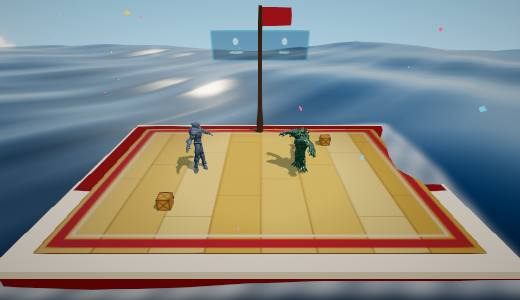
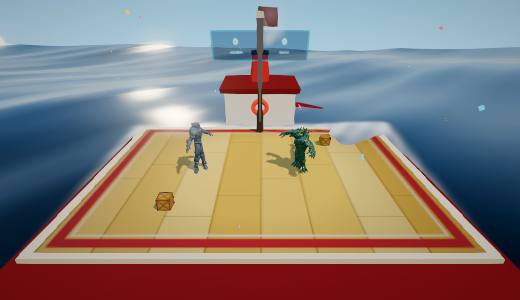
ALTO MAR vira NAVIO de verdade em movimento 🚢
- Casco de rebocador extrudado (popa redonda, proa em bico) com passadiço
  vermelho ao redor do convés de luta; cabine branca com teto, chaminé
  soltando FUMAÇA que escoa pra popa, boia salva-vidas e cordame do mastro.
- Navio em MOVIMENTO sem tocar na física: a correnteza desloca a fase das
  ondas (vêm da proa e escoam pra popa), whitecaps viajam junto da água,
  espuma reforçada na proa e ESTEIRA em V atrás da popa (ângulo de Kelvin
  ~19°) com riscos correndo pra trás e bordas brancas sumindo ao longe.
- Bandeira esticada pro vento aparente do avanço; thumbnail regerada.

Claude-Session: https://claude.ai/code/session_01VFZfn93qfLdPvcdkebiN54

diff --git a/src/main.js b/src/main.js
@@ -2098,7 +2098,7 @@ const MAPAS = [
   },
   {
     nome: 'ALTO MAR',
-    desc: 'convés de navio em mar aberto',
+    desc: 'navio a todo vapor, ondas de proa',
     fundoTex: FUNDOS.ceuAberto,
     amb: 'agua',
     semHolofotes: true,
@@ -2110,17 +2110,60 @@ const MAPAS = [
       climaMapa({ ceu: 0xbfd8e8, chao: 0x1c3a4a, fog: 0xc4d6e2, fogNear: 34, fogFar: 95, sol: 0xfff2d8, solInt: 1.4, expo: 1.02 });
       // Convés de madeira (o ringue) + casco + mastro com bandeira
       chaoFixo(m, 5.5, 4, new THREE.MeshStandardMaterial({ map: deckTex, roughness: 0.8 }));
-      const casco = new THREE.Mesh(new THREE.BoxGeometry(12.2, 1.5, 8.9), toonMat(THREE, 0x8a2f24));
-      casco.position.y = -0.78; scene.add(casco); m.meshes.push(casco);
-      const friso = new THREE.Mesh(new THREE.BoxGeometry(12.4, 0.22, 9.1), toonMat(THREE, 0xe8dcc0));
-      friso.position.y = -0.14; scene.add(friso); m.meshes.push(friso);
+      // CASCO de rebocador de verdade: contorno extrudado — popa redonda, proa em
+      // bico. O convés de luta é o meio do navio; cabine e chaminé ficam na proa
+      // (fora do ringue) pra silhueta ser de BARCO sem atrapalhar a briga.
+      const contorno = new THREE.Shape();
+      contorno.moveTo(-5.9, -5.4);                       // bochecha da popa (bombordo)
+      contorno.quadraticCurveTo(0, -8.6, 5.9, -5.4);     // popa arredondada
+      contorno.lineTo(5.9, 4.2);                          // costado
+      contorno.quadraticCurveTo(5.5, 7.6, 0, 10.4);      // proa em bico
+      contorno.quadraticCurveTo(-5.5, 7.6, -5.9, 4.2);
+      contorno.closePath();
+      const geoCasco = new THREE.ExtrudeGeometry(contorno, { depth: 1.7, bevelEnabled: true, bevelSize: 0.35, bevelThickness: 0.3, bevelSegments: 2 });
+      geoCasco.rotateX(-Math.PI / 2); // shape XY -> XZ (y do shape vira -z: proa em -z)
+      const casco = new THREE.Mesh(geoCasco, toonMat(THREE, 0x8a2f24));
+      casco.position.y = -2.16; casco.castShadow = true; // topo ~15cm abaixo do assoalho: vira o passadiço vermelho da borda
+      scene.add(casco); m.meshes.push(casco);
+      const friso = new THREE.Mesh(new THREE.BoxGeometry(11.6, 0.2, 8.4), toonMat(THREE, 0xe8dcc0));
+      friso.position.y = -0.11; scene.add(friso); m.meshes.push(friso);
+      // cabine branca com teto + chaminé na proa
+      const cabine = new THREE.Mesh(new THREE.BoxGeometry(3.5, 1.7, 2.7), toonMat(THREE, 0xf2ede2));
+      cabine.position.set(0, 0.75, -6.1); cabine.castShadow = true;
+      const teto = new THREE.Mesh(new THREE.BoxGeometry(3.9, 0.24, 3.1), toonMat(THREE, 0x8a2f24));
+      teto.position.set(0, 1.72, -6.1);
+      const chamine = new THREE.Mesh(new THREE.CylinderGeometry(0.42, 0.52, 1.5, 14), toonMat(THREE, 0xcf4a37));
+      chamine.position.set(0, 2.5, -6.4); chamine.rotation.x = -0.12;
+      const bocaCh = new THREE.Mesh(new THREE.CylinderGeometry(0.46, 0.46, 0.24, 14), toonMat(THREE, 0x2b2b33));
+      bocaCh.position.set(0, 3.24, -6.49); bocaCh.rotation.x = -0.12;
+      const boia = new THREE.Mesh(new THREE.TorusGeometry(0.34, 0.11, 10, 20), toonMat(THREE, 0xff6b4a));
+      boia.position.set(0, 0.85, -4.7);
+      for (const o of [cabine, teto, chamine, bocaCh, boia]) { scene.add(o); m.meshes.push(o); }
+      // cordame: mastro -> proa e mastro -> popa (caixinhas fininhas inclinadas)
+      const corda = (z1, y1, z2, y2) => {
+        const L = Math.hypot(z2 - z1, y2 - y1);
+        const c = new THREE.Mesh(new THREE.BoxGeometry(0.035, 0.035, L), toonMat(THREE, 0xd8cfb8));
+        c.position.set(0, (y1 + y2) / 2, (z1 + z2) / 2);
+        c.rotation.x = Math.atan2(y2 - y1, z2 - z1);
+        scene.add(c); m.meshes.push(c);
+      };
+      corda(-3.6, 5.3, -9.6, 0.4);
+      corda(-3.6, 5.3, 7.6, 0.3);
+      // fumaça da chaminé escoando pra POPA (vende o navio andando)
+      const fumacas = [];
+      for (let i = 0; i < 7; i++) {
+        const s = new THREE.Sprite(new THREE.SpriteMaterial({ map: texBolinha, color: 0xdedee6, transparent: true, opacity: 0, depthWrite: false }));
+        scene.add(s); m.meshes.push(s);
+        fumacas.push({ s, f: i / 7 });
+      }
       const mastro = new THREE.Mesh(new THREE.CylinderGeometry(0.09, 0.13, 5.4, 10), toonMat(THREE, 0x5a4632));
       mastro.position.set(0, 2.7, -3.6); mastro.castShadow = true; scene.add(mastro); m.meshes.push(mastro);
       const bandeira = new THREE.Mesh(
         new THREE.PlaneGeometry(1.25, 0.7, 12, 1),
         new THREE.MeshStandardMaterial({ color: 0xff5252, side: THREE.DoubleSide, roughness: 0.85 }),
       );
-      bandeira.position.set(0.65, 5.0, -3.6); scene.add(bandeira); m.meshes.push(bandeira);
+      bandeira.rotation.y = -Math.PI * 0.3; // meio de popa (vento do avanço), meio de frente (câmera vê)
+      bandeira.position.set(0.35, 5.0, -3.2); scene.add(bandeira); m.meshes.push(bandeira);
       const bandBase = bandeira.geometry.attributes.position.array.slice();
       fazerCaixote(m, -2.8, 2.2); fazerCaixote(m, 2.8, -2.2);
       // ---- o mar ----
@@ -2136,27 +2179,31 @@ const MAPAS = [
         },
         vertexShader: `
           uniform float uTempo;
-          varying vec3 vPos; varying vec3 vNrm; varying float vCrista;
-          void gerstner(vec2 d, float k, float a, float q, float w, inout vec3 p, inout vec3 n, inout float cr) {
-            float ph = k * dot(d, p.xz) - w * uTempo;
+          varying vec3 vPos; varying vec3 vNrm; varying float vCrista; varying vec2 vFlow;
+          // NAVIO EM MOVIMENTO: o barco é fixo na física e a ÁGUA corre por ele.
+          // As fases das ondas usam a grade deslocada pela correnteza (vem da proa,
+          // -z, e escoa pra popa, +z) — ilusão de avanço sem mexer em colisor nenhum.
+          void gerstner(vec2 d, float k, float a, float q, float w, vec2 g, inout vec3 p, inout vec3 n, inout float cr) {
+            float ph = k * dot(d, g) - w * uTempo;
             float s = sin(ph), c = cos(ph);
             p.x += q * a * d.x * c; p.z += q * a * d.y * c; p.y += a * s;
             n.x -= d.x * k * a * c; n.z -= d.y * k * a * c; n.y -= q * k * a * s;
             cr += a * s * (0.5 + q);
           }
           void main() {
+            vec2 g = position.xz + vec2(0.0, uTempo * 3.2); // correnteza do avanço
             vec3 p = position; vec3 n = vec3(0.0, 1.0, 0.0); float cr = 0.0;
-            gerstner(normalize(vec2( 1.0,  0.25)), 0.14, 0.42, 0.55, 1.05, p, n, cr);
-            gerstner(normalize(vec2( 0.8, -0.55)), 0.24, 0.26, 0.50, 1.45, p, n, cr);
-            gerstner(normalize(vec2(-0.35, 1.0 )), 0.42, 0.14, 0.45, 1.95, p, n, cr);
-            gerstner(normalize(vec2( 0.95, 0.7 )), 0.75, 0.07, 0.40, 2.70, p, n, cr);
-            gerstner(normalize(vec2(-0.7, -0.9 )), 1.30, 0.035, 0.35, 3.60, p, n, cr);
-            vPos = p; vNrm = normalize(n); vCrista = cr;
+            gerstner(normalize(vec2( 0.2,  1.0 )), 0.14, 0.42, 0.55, 1.05, g, p, n, cr);
+            gerstner(normalize(vec2(-0.45, 1.0 )), 0.24, 0.26, 0.50, 1.45, g, p, n, cr);
+            gerstner(normalize(vec2( 0.75, 0.8 )), 0.42, 0.14, 0.45, 1.95, g, p, n, cr);
+            gerstner(normalize(vec2( 0.95, 0.7 )), 0.75, 0.07, 0.40, 2.70, g, p, n, cr);
+            gerstner(normalize(vec2(-0.7, -0.9 )), 1.30, 0.035, 0.35, 3.60, g, p, n, cr);
+            vPos = p; vNrm = normalize(n); vCrista = cr; vFlow = g;
             gl_Position = projectionMatrix * modelViewMatrix * vec4(p, 1.0);
           }`,
         fragmentShader: `
           uniform float uTempo; uniform vec3 uSol, uFunda, uRasa, uNevoa;
-          varying vec3 vPos; varying vec3 vNrm; varying float vCrista;
+          varying vec3 vPos; varying vec3 vNrm; varying float vCrista; varying vec2 vFlow;
           // "ruído" por interferência de senos: liso, barato e sem artefato de grade
           float marulho(vec2 p, float t) {
             return 0.5 + 0.25 * sin(p.x * 2.3 + t * 1.1) * sin(p.y * 1.9 - t * 0.8)
@@ -2178,13 +2225,24 @@ const MAPAS = [
             // glint do sol (spec estreito + brilho largo)
             float sr = max(dot(R, uSol), 0.0);
             cor += vec3(1.0, 0.93, 0.75) * (pow(sr, 380.0) * 3.0 + pow(sr, 32.0) * 0.10);
-            // WHITECAPS: crista ALTA com quebra SUAVE (nada de threshold duro — vira listra)
-            float esp = smoothstep(0.8, 1.15, vCrista) * (0.45 + 0.55 * marulho(vPos.xz * 0.7, uTempo));
-            // espuma do CASCO: halo curto e discreto respirando junto do navio
+            // WHITECAPS: crista ALTA com quebra SUAVE, viajando JUNTO da água (vFlow)
+            float esp = smoothstep(0.8, 1.15, vCrista) * (0.45 + 0.55 * marulho(vFlow * 0.7, uTempo));
+            // espuma do CASCO: halo respirando, mais forte na PROA que corta a água (-z)
             vec2 dRect = abs(vPos.xz) - vec2(6.1, 4.45);
             float dCasco = length(max(dRect, 0.0));
-            float anel = smoothstep(0.85, 0.0, dCasco) * (0.55 + 0.25 * sin(dCasco * 5.0 - uTempo * 2.2));
+            float proa = 1.0 + smoothstep(-2.5, -4.4, vPos.z) * 0.9;
+            float anel = smoothstep(0.85, 0.0, dCasco) * (0.55 + 0.25 * sin(dCasco * 5.0 - uTempo * 2.2)) * proa;
             esp = clamp(esp + anel * (0.35 + 0.3 * marulho(vPos.xz * 1.2, uTempo * 1.3)), 0.0, 1.0);
+            // ESTEIRA em V atrás da popa (ângulo de Kelvin ~19°): riscos de espuma
+            // correndo pra trás e bordas do V mais brancas, sumindo com a distância
+            float atras = vPos.z - 4.45;
+            if (atras > 0.0) {
+              float larg = 0.9 + atras * 0.36;
+              float dentro = smoothstep(larg, larg * 0.5, abs(vPos.x)) * smoothstep(0.0, 1.5, atras) * smoothstep(17.0, 4.0, atras);
+              float riscos = 0.5 + 0.5 * sin(vPos.x * 6.0 + atras * 1.4 - uTempo * 5.5);
+              float borda = smoothstep(0.35, 0.0, abs(abs(vPos.x) - larg * 0.82)) * smoothstep(0.0, 1.0, atras) * smoothstep(15.0, 3.0, atras);
+              esp = clamp(esp + dentro * riscos * (0.3 + 0.35 * marulho(vPos.xz * 1.1, uTempo * 1.6)) + borda * 0.45, 0.0, 1.0);
+            }
             cor = mix(cor, vec3(0.9, 0.96, 1.0), esp * 0.55);
             // perspectiva aérea: longe some na névoa do horizonte
             float dist = length(cameraPosition - vPos);
@@ -2208,6 +2266,13 @@ const MAPAS = [
           bp.array[i * 3 + 2] = Math.sin(x * 4.2 - t * 6.5) * 0.09 * (x + 0.625);
         }
         bp.needsUpdate = true;
+        // fumaça sobe da chaminé e escoa pra popa (vento aparente do avanço)
+        for (const f of fumacas) {
+          const k = (t * 0.45 + f.f) % 1; // ciclo de vida 0..1
+          f.s.position.set(Math.sin(t * 1.3 + f.f * 9) * 0.25 + k * 0.8, 3.35 + k * 2.3, -6.5 + k * 5.2);
+          f.s.scale.setScalar(0.35 + k * 1.6);
+          f.s.material.opacity = 0.5 * (1 - k) * Math.min(1, k * 8);
+        }
         if (prox === 0) prox = t + 7 + Math.random() * 4;
         if (fase === 'calmo' && t > prox) {
           fase = 'aviso'; faseAte = t + 1.1;
